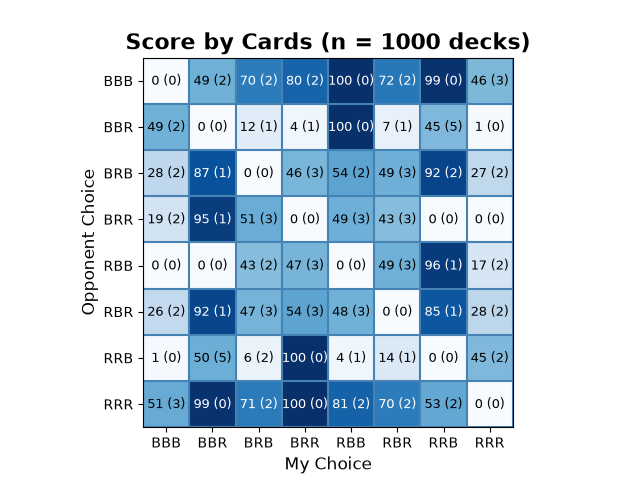
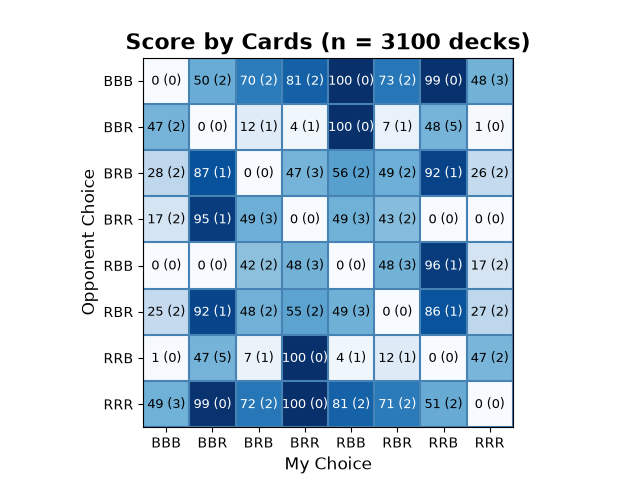
Updated some comments throughout

diff --git a/src/dataproc.py b/src/dataproc.py
@@ -119,12 +119,12 @@ def get_results_for_new_games(game_history, save=False):
     merged_scores = [results for game in new_scores for results in game] #fix shape to turn into dataframe (got help from ChatGPT)
     new_scores_df = pd.DataFrame(merged_scores, columns = ['game_str','pattern1','pattern2','tricks1', 'tricks2', 'cards1', 'cards2', 'winner_tricks','winner_cards'],) #turn into dataframe (may change data storage type later)
 
-    if save: #only save the full results dataframe if explicitly requested
-        #similar to datagen.py for saving to /data
-        output_dir = Path('./data')
-        output_dir.mkdir(parents=True, exist_ok=True)
-        arr = new_scores_df.to_records(index=False) #converts df to numpy array 
-        np.savez_compressed(output_dir / "game_results_array.npz", data=arr)
+    # if save: #only save the full results dataframe if explicitly requested
+    #     #similar to datagen.py for saving to /data
+    #     output_dir = Path('./data')
+    #     output_dir.mkdir(parents=True, exist_ok=True)
+    #     arr = new_scores_df.to_records(index=False) #converts df to numpy array 
+    #     np.savez_compressed(output_dir / "game_results_array.npz", data=arr)
 
     return new_scores_df
 
@@ -168,6 +168,8 @@ def calc_probs(df, pattern1, pattern2):
 
 #     return p_wintricks_array, p_tietricks_array, p_wincards_array, p_tiecards_array 
 
+#below added calc_counts and make_count_arrays with help from claude to help count every game won (not just latest batch) and run it for every combination 
+
 
 def calc_counts(df, pattern1, pattern2):
     '''
@@ -190,7 +192,7 @@ def make_count_arrays(game_history):
     many runs of different sizes and then converted to a percentage once, at
     visualization time (see datavis.load_all_scored_data / counts_to_pct).
     '''
-    df = get_results_for_new_games(game_history) #save=False by default -- this dataframe is only an intermediate here
+    df = get_results_for_new_games(game_history) 
     win_tricks_array = np.zeros((8,8), dtype=int)
     tie_tricks_array = np.zeros((8,8), dtype=int)
     win_cards_array = np.zeros((8,8), dtype=int)

diff --git a/src/datavis.py b/src/datavis.py
@@ -2,8 +2,7 @@ import numpy as np
 import matplotlib.pyplot as plt
 from pathlib import Path
 
-#same tick labels as before, in the same order as opp_patterns/my_patterns in dataproc.py
-#(000->BBB, 001->BBR, 010->BRB, 011->BRR, 100->RBB, 101->RBR, 110->RRB, 111->RRR)
+#same tick labels as Prof Smith 
 x_tick_labels = ['BBB', 'BBR', 'BRB', 'BRR', 'RBB', 'RBR', 'RRB', 'RRR']
 y_tick_labels = ['BBB', 'BBR', 'BRB', 'BRR', 'RBB', 'RBR', 'RRB', 'RRR']
 
@@ -45,15 +44,7 @@ def counts_to_pct(count_array, n_games_total):
 
 def plot_heatmap(win_data, tie_data, title, output_path):
     '''
-    Draws one heatmap using the same styling/scoring-display logic as the original
-    two heatmaps in this file (Blues colormap, minor gridlines, BBB/BBR/... tick
-    labels). Used for both creating a heatmap the first time and updating it later --
-    savefig overwrites the existing file at output_path either way.
-
-    win_data/tie_data: 8x8 percentage arrays (0-100), from my choice's perspective.
-    Each cell is shaded by win_data and labeled "win (tie)", rounded to the nearest
-    integer with no % sign. Text is white on dark (high-win) cells and black on
-    light ones, based on each cell's actual rendered color, so it stays readable.
+    Draws heatmap
     '''
     fig, ax = plt.subplots()
     cmap = plt.get_cmap("Blues")

diff --git a/main.py b/main.py
@@ -14,7 +14,7 @@ from datagen import generate_data
 from dataproc import make_count_arrays
 from datavis import update_visualizations
 
-
+#add Argument Parser to allow for user to pick the games and seeds 
 def parse_args():
     parser = argparse.ArgumentParser(description="Generate, score, and visualize new decks for the card game.")
     parser.add_argument(
